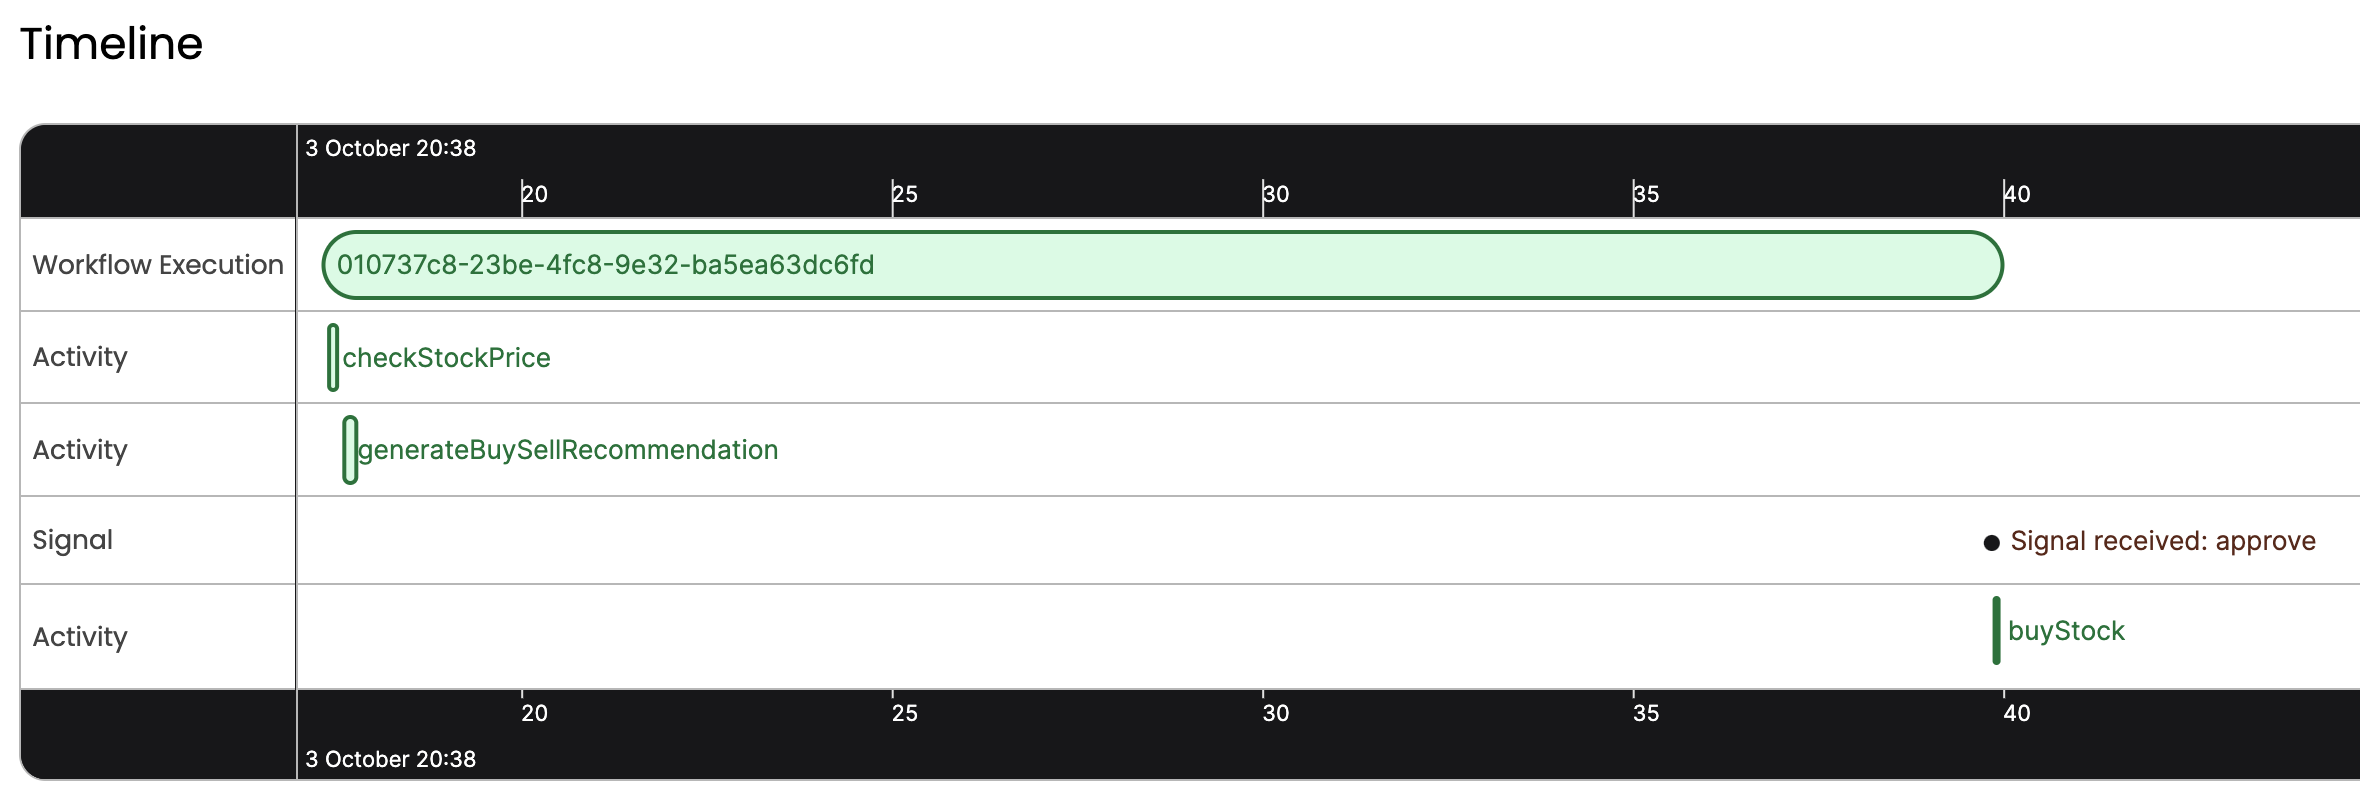
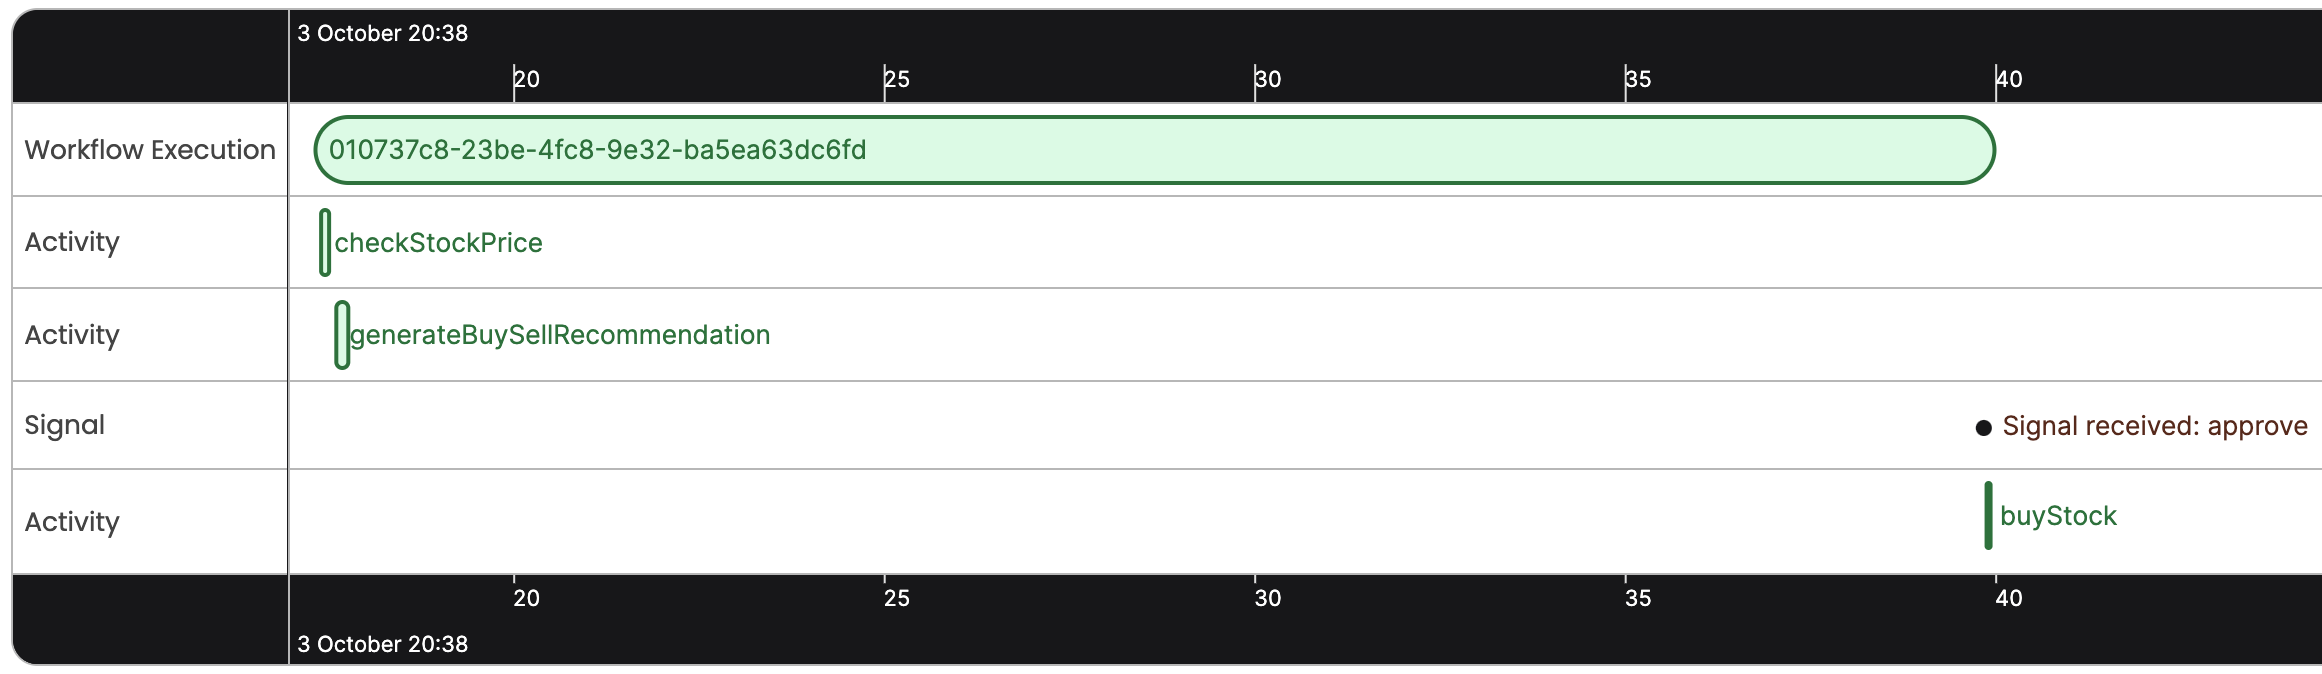
README update

diff --git a/README.md b/README.md
@@ -1,8 +1,9 @@
 ## Temporal Sample: Orchestrate Lamdba Functions
 
-![Timeline Image](./timeline.png)
-
 A Temporal Version of [AWS Step Functions: Lambda orchestration example](https://docs.aws.amazon.com/step-functions/latest/dg/sample-lambda-orchestration.html)
+
+![Timeline Image](./timeline.png)
+_A Temporal UI timeline view of a workflow execution_
 
 #### Deploy AWS Lambda microservices and APIs (Optional)
 
